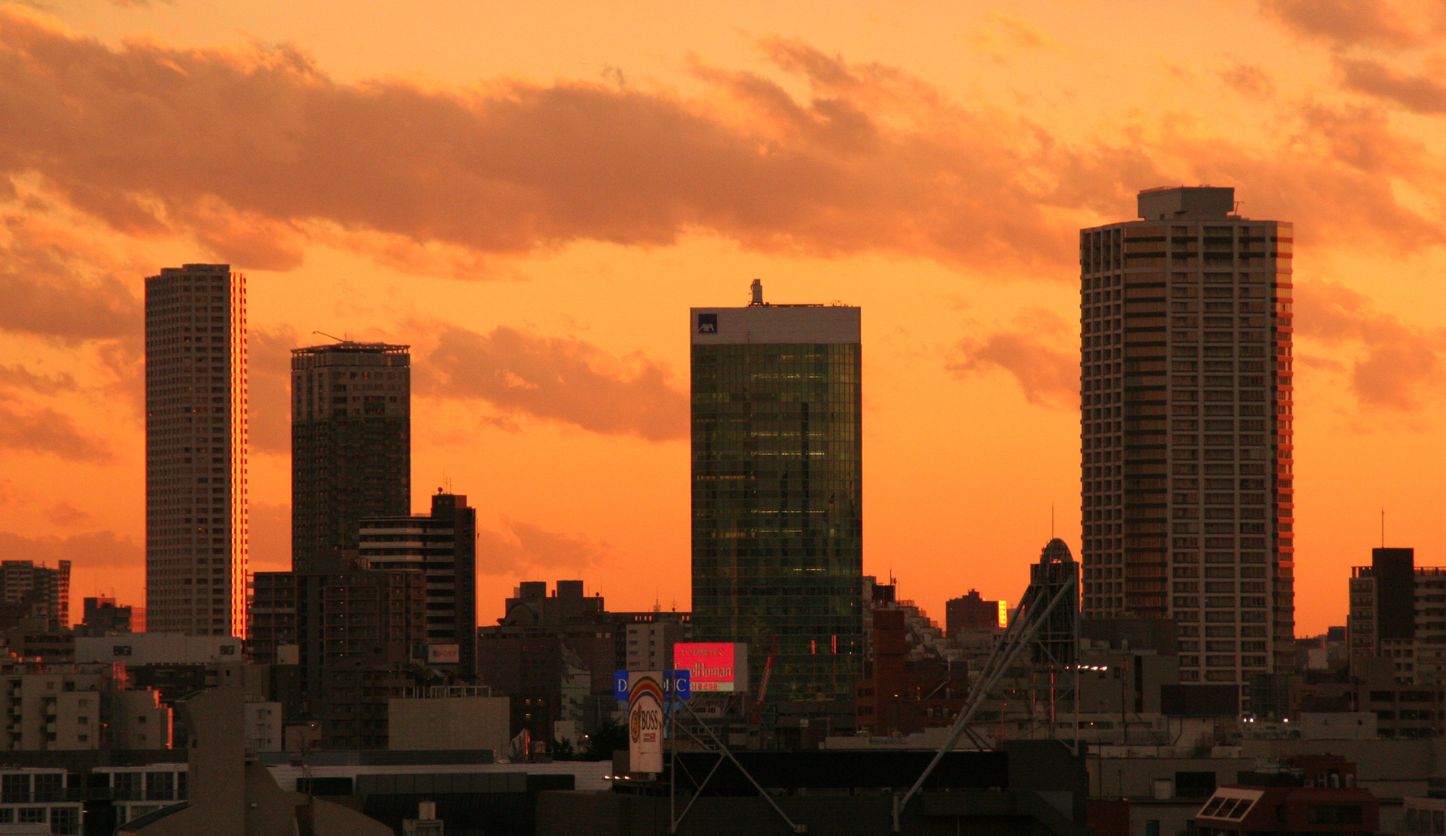
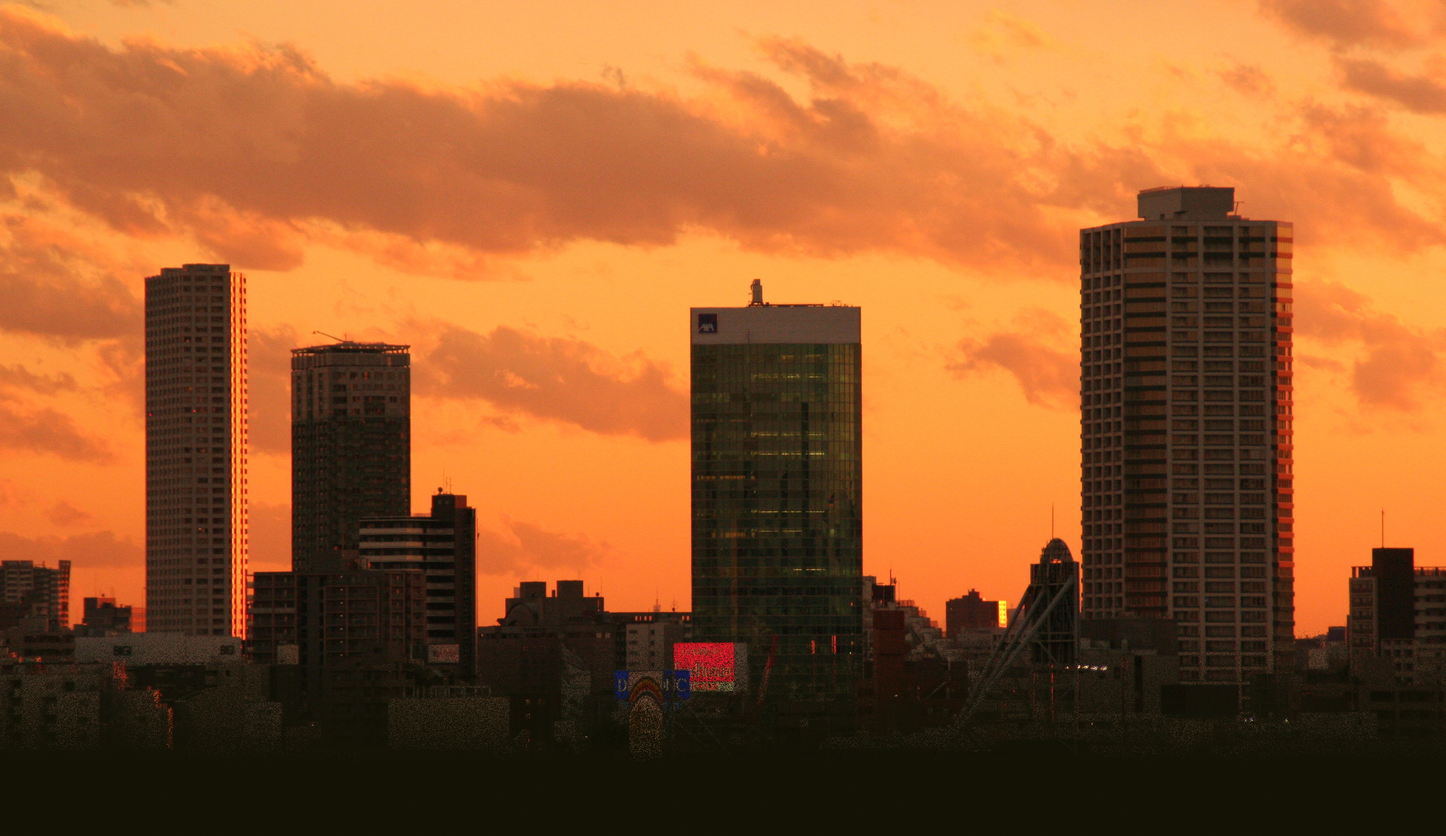
add gradient to background

Changed region(s): [[0.0, 0.7804, 0.5265, 1.0], [0.5574, 0.7804, 1.0, 1.0], [0.8052, 0.7804, 0.929, 0.8117]]

diff --git a/public/main.css b/public/main.css
@@ -4,11 +4,44 @@ body {
     text-align: center;
     font-family: 'Ubuntu', sans-serif;
     background-image: url('images/cityscape.jpg');
+    background-repeat: no-repeat;
+    background-color: #131205;
 }
 
 #title {
     font-family: 'Bungee', cursive;
-    font-size: 50px;
+    font-size: 80px;
+    margin: 10px;
+}
+
+ul {
+    list-style-type: none;
+    padding: 0;
+    display: flex;
+    justify-content: center;
+    flex-wrap: wrap;
+}
+
+li {
+    border: 1px black solid;
+    display: inline-block;
+    margin: 5px;
+    padding: 5px;
+    border-radius: 3px;
+}
+
+a {
+    color: black;
+    text-decoration: none;
+}
+
+.chapterList {
+    background-color: bisque;
+    width: 30%;
+    border: 3px black solid;
+    border-radius: 20px;
+    margin: 10px auto;
+    padding: 10px;
 }
 
 .chapter {

diff --git a/client/components/Nav.jsx b/client/components/Nav.jsx
@@ -4,14 +4,14 @@ import {Link} from 'react-router-dom'
 
 const Nav = () => {
   return (
-    <>
+    <div className='chapterList'>
     <h1>Chapters</h1>
     <ul>
         <li><Link to='/chapter/1'>Chapter 1</Link></li>
         <li><Link to='/chapter/2'>Chapter 2</Link></li>
         <li><Link to='/chapter/3'>Chapter 3</Link></li>
     </ul>
-    </>
+    </div>
   )
 }
 
